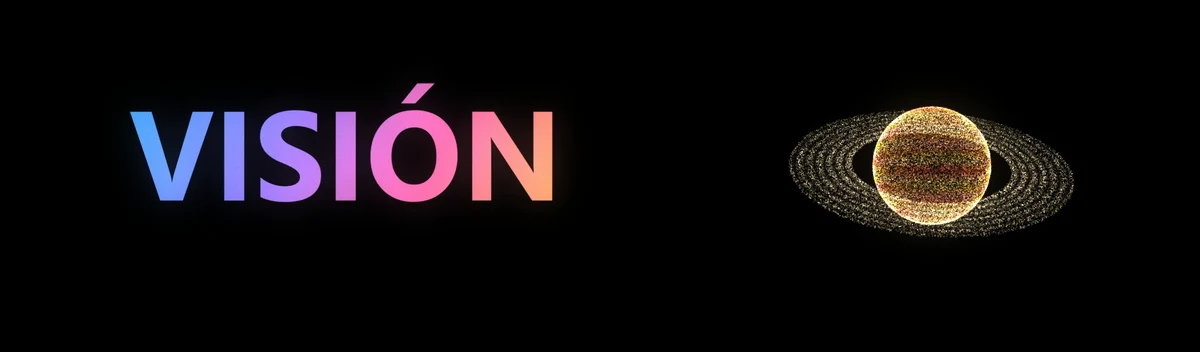
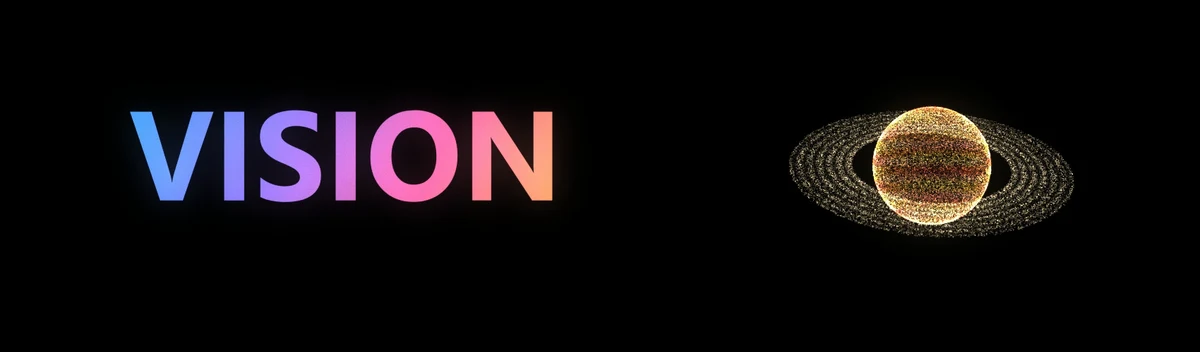
VISION
Claude-Session: https://claude.ai/code/session_01QCYTMinSPF5p7tBa2mUJnL

Changed region(s): [[0.6475, 0.3125, 0.8942, 0.6875], [0.3392, 0.2188, 0.37, 0.3125]]

diff --git a/README.md b/README.md
@@ -2,9 +2,9 @@
 
 <p><b>Español</b> · <a href="README.en.md">English</a></p>
 
-<a href="https://virtuanista.github.io/vision/"><picture><source media="(prefers-reduced-motion: reduce)" srcset="img/vision-fija.webp"><img src="img/vision.webp" alt="VISIÓN" width="100%"></picture></a>
+<a href="https://virtuanista.github.io/vision/"><picture><source media="(prefers-reduced-motion: reduce)" srcset="img/vision-fija.webp"><img src="img/vision.webp" alt="VISION" width="100%"></picture></a>
 
-<a href="https://virtuanista.github.io/vision/"><img alt="Probar gratis" src="https://img.shields.io/badge/VISIÓN-Probar_gratis-3fa9ff?style=for-the-badge"></a> <a href="https://virtuanista.github.io/vision/pro/#precios"><img alt="Comprar" src="https://img.shields.io/badge/VISIÓN-Comprar-8b3fd9?style=for-the-badge"></a>
+<a href="https://virtuanista.github.io/vision/"><img alt="Probar gratis" src="https://img.shields.io/badge/VISION-Probar_gratis-3fa9ff?style=for-the-badge"></a> <a href="https://virtuanista.github.io/vision/pro/#precios"><img alt="Comprar" src="https://img.shields.io/badge/VISION-Comprar-8b3fd9?style=for-the-badge"></a>
 
 ### Desarrollo · Tecnología · Inteligencia Artificial
 
@@ -47,7 +47,7 @@ Del más nuevo al más antiguo.
 | 2026&#8209;11 | [**Parkour Template**](https://github.com/virtuanista/parkour-template) | Plantilla de parkour en tercera persona para empezar tu juego. | [Ficha](https://virtuanista.github.io/#parkour) |
 | 2026&#8209;11 | [**DataMiner**](https://github.com/virtuanista/data-miner) | Busca en hasta 45 fuentes a la vez, extrae el contenido y descarga los ficheros. | [Ficha](https://virtuanista.github.io/#dataminer) |
 | 2026&#8209;11 | [**Knowledge Atlas**](https://github.com/virtuanista/knowledge-atlas) | Seis grafos fractales con 5.958 fuentes. Se abre con OSINT. | [Ficha](https://virtuanista.github.io/#atlas) |
-| 2026&#8209;11 | [**VISIÓN**](https://github.com/virtuanista/vision) | Una interfaz hecha solo de puntos. | [Ficha](https://virtuanista.github.io/#vision) |
+| 2026&#8209;11 | [**VISION**](https://github.com/virtuanista/vision) | Una interfaz hecha solo de puntos. | [Ficha](https://virtuanista.github.io/#vision) |
 | 2026&#8209;11 | [**Prisma**](https://github.com/vxtop/prisma) | Habla y trabaja con Claude en un espacio 3D. | [Ficha](https://virtuanista.github.io/#prisma) |
 | 2026&#8209;11 | [**GameHub**](https://github.com/virtuanista/gamehub) | Espacio de trabajo local para producir un videojuego completo. | [Ficha](https://virtuanista.github.io/#gamehub) |
 | 2026&#8209;11 | [**CENIZA: Protocolo Bastión**](https://github.com/virtuanista/ceniza-protocolo-bastion) | Shooter de supervivencia por oleadas en primera persona. | [Ficha](https://virtuanista.github.io/#ceniza) |

diff --git a/README.en.md b/README.en.md
@@ -2,9 +2,9 @@
 
 <p><a href="README.md">Español</a> · <b>English</b></p>
 
-<a href="https://virtuanista.github.io/vision/?lang=en"><picture><source media="(prefers-reduced-motion: reduce)" srcset="img/vision-fija.webp"><img src="img/vision.webp" alt="VISIÓN" width="100%"></picture></a>
+<a href="https://virtuanista.github.io/vision/?lang=en"><picture><source media="(prefers-reduced-motion: reduce)" srcset="img/vision-fija.webp"><img src="img/vision.webp" alt="VISION" width="100%"></picture></a>
 
-<a href="https://virtuanista.github.io/vision/?lang=en"><img alt="Try it free" src="https://img.shields.io/badge/VISIÓN-Try_it_free-3fa9ff?style=for-the-badge"></a> <a href="https://virtuanista.github.io/vision/pro/?lang=en#precios"><img alt="Buy" src="https://img.shields.io/badge/VISIÓN-Buy-8b3fd9?style=for-the-badge"></a>
+<a href="https://virtuanista.github.io/vision/?lang=en"><img alt="Try it free" src="https://img.shields.io/badge/VISION-Try_it_free-3fa9ff?style=for-the-badge"></a> <a href="https://virtuanista.github.io/vision/pro/?lang=en#precios"><img alt="Buy" src="https://img.shields.io/badge/VISION-Buy-8b3fd9?style=for-the-badge"></a>
 
 ### Development · Technology · Artificial Intelligence
 
@@ -47,7 +47,7 @@ Newest to oldest.
 | 2026&#8209;11 | [**Parkour Template**](https://github.com/virtuanista/parkour-template) | Third-person parkour template to start your game. | [Details](https://virtuanista.github.io/en/#parkour) |
 | 2026&#8209;11 | [**DataMiner**](https://github.com/virtuanista/data-miner) | Searches up to 45 sources at once, extracts the content and downloads the files. | [Details](https://virtuanista.github.io/en/#dataminer) |
 | 2026&#8209;11 | [**Knowledge Atlas**](https://github.com/virtuanista/knowledge-atlas) | Six fractal graphs with 5,958 sources. Opens on OSINT. | [Details](https://virtuanista.github.io/en/#atlas) |
-| 2026&#8209;11 | [**VISIÓN**](https://github.com/virtuanista/vision) | An interface made only of points. | [Details](https://virtuanista.github.io/en/#vision) |
+| 2026&#8209;11 | [**VISION**](https://github.com/virtuanista/vision) | An interface made only of points. | [Details](https://virtuanista.github.io/en/#vision) |
 | 2026&#8209;11 | [**Prisma**](https://github.com/vxtop/prisma) | Talk and work with Claude in a 3D space. | [Details](https://virtuanista.github.io/en/#prisma) |
 | 2026&#8209;11 | [**GameHub**](https://github.com/virtuanista/gamehub) | Local workspace to produce a complete video game. | [Details](https://virtuanista.github.io/en/#gamehub) |
 | 2026&#8209;11 | [**CENIZA: Protocolo Bastión**](https://github.com/virtuanista/ceniza-protocolo-bastion) | First-person wave survival shooter. | [Details](https://virtuanista.github.io/en/#ceniza) |
